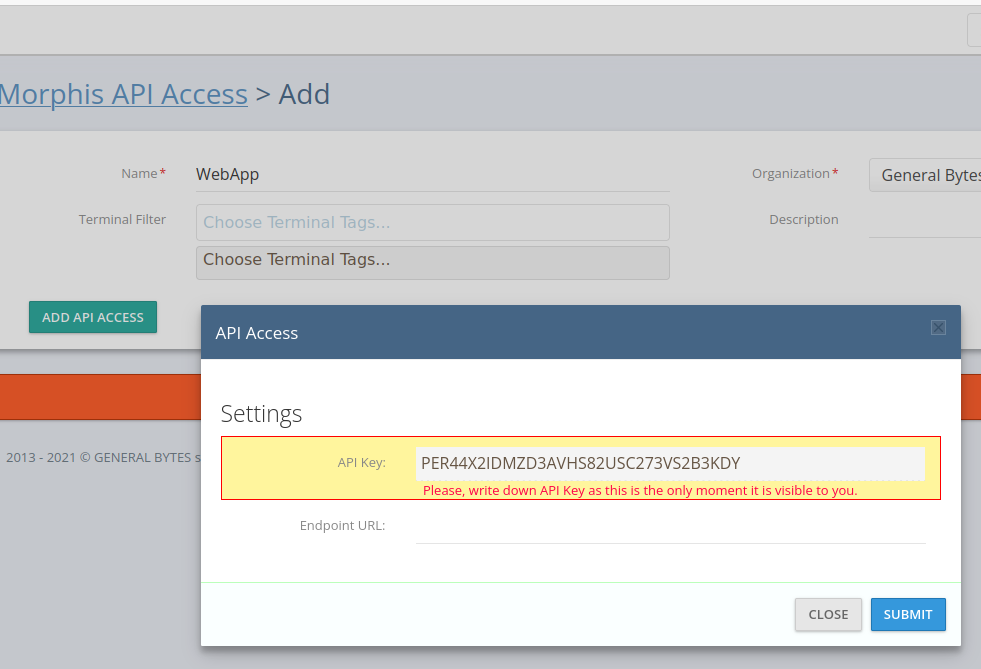
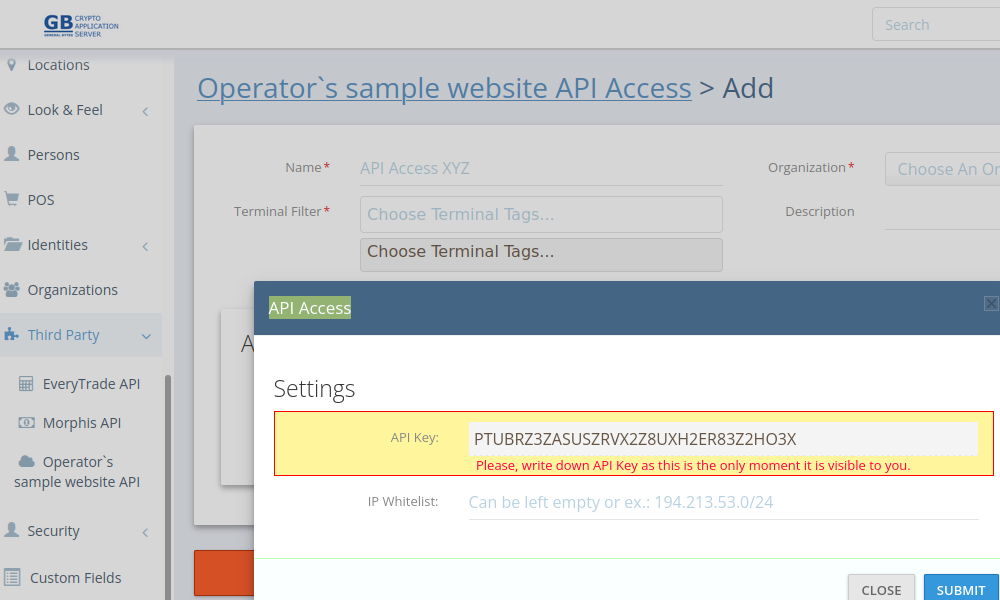
BATM-2626/WebApp - updated PHP version & few changes related to api key access

diff --git a/operators_sample_website/website/app/GBlib/Repositories/IGbCasRestServices.php b/operators_sample_website/website/app/GBlib/Repositories/IGbCasRestServices.php
@@ -6,7 +6,7 @@ interface IGbCasRestServices
 {
 
     const CAS_URL = 'https://127.0.0.1:7743'; // your Crypto application server url
-    const API_KEY = 'PM2TB2IMBVIREBI3C3TIPBUK7CB2BOVAS'; // your Morphis - CAS Api Key
+    const API_KEY = 'XXXXXXXXXXXXXXXXXXXXXXXXXXX'; // operators sample website API Access - CAS/Third Party/Operator`s sample website
 
     /*
      * Path to your RestServices placed on

diff --git a/operators_sample_website/website/README.md b/operators_sample_website/website/README.md
@@ -23,7 +23,10 @@ Advantages of the OSW:
 
 ** Install PHP & Nginx :**
 ```bash
-$ sudo apt install -y php-mbstring php-xml php-fpm php-zip php-common php-cli unzip curl nginx
+$ sudo add-apt-repository ppa:ondrej/php
+$ sudo apt-get update
+$ sudo apt-get install php8.0
+$ sudo apt install -y php8.0-mbstring php8.0-xml php8.0-zip php8.0-mysql php8.0-common php8.0-cli unzip curl nginx
 ```
 
 ** Install composer: **
@@ -43,20 +46,21 @@ $ sudo chmod +x   /usr/local/bin/composer
 $ composer --version
 ```
 
+** Install git: **
+```bash
+$ sudo apt install git-all
+```
 ** Install OperatorsSampleWebsite package **
 ```bash
 $ git clone https://github.com/GENERALBYTESCOM/batm_public.git
 ```
+
 * Navigate to installed folder website /operators_sample_website/website and update composer dependecies
 ```bash
 $ composer update
 ```
-* Update laravel setup
-```bash
-$ php artisan config:clear
-$ php artisan key:generate
-```
-* Check your installation on devel server and click on url http://127.0.0.1:8000
+
+* Check your installation on devel server and open in browser link http://127.0.0.1:8000
 ```bash
 $ php artisan serve
 ```
